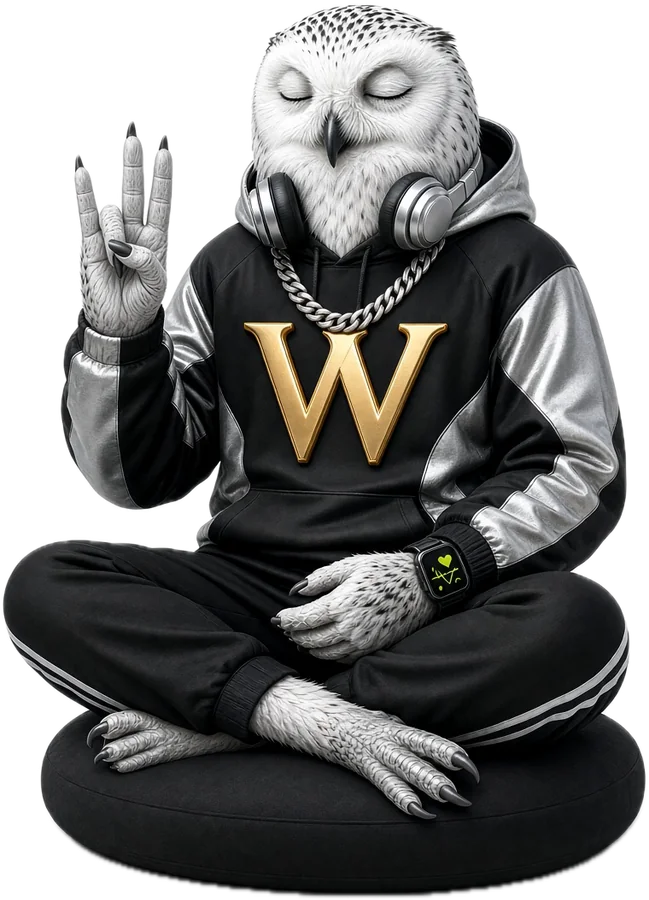
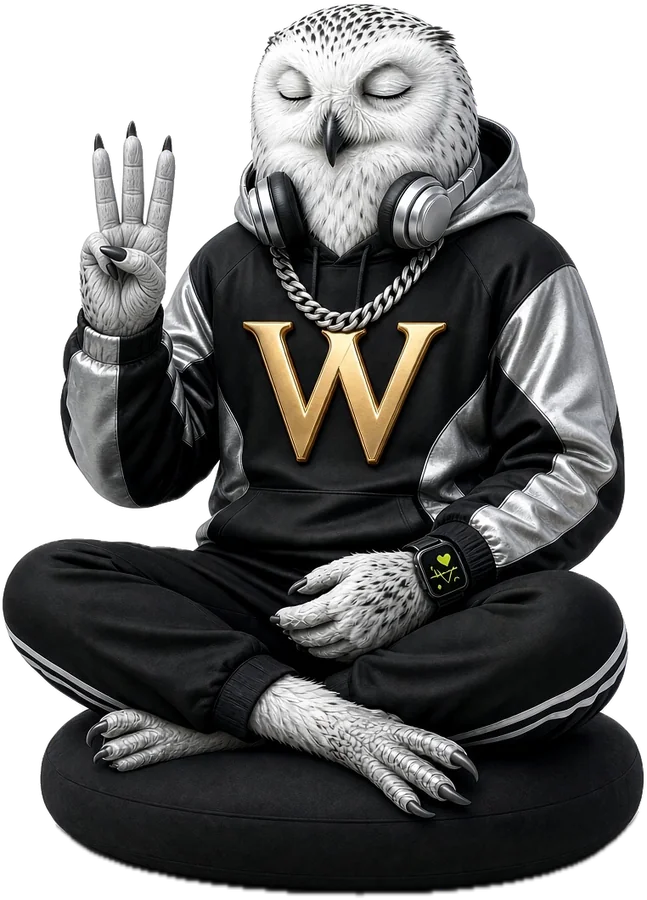
Cast: 8 expressive VVakers (faces visible, no sunglasses: skater, baller, hiker, walker women; runner, dancer, coder, boxer men) in the hero draw; owl meditator's sign fixed; menu label with the sign aligned with the others

diff --git a/src/lib/personas.ts b/src/lib/personas.ts
@@ -16,7 +16,7 @@ export const PERSONAS: Record<VVakerSport, { animal: string; w: number; h: numbe
   coder: { animal: "raccoon", w: 512, h: 900 },
   martial: { animal: "giant panda", w: 558, h: 900 },
   paddler: { animal: "eagle", w: 684, h: 900 },
-  meditator: { animal: "snowy owl", w: 649, h: 900 },
+  meditator: { animal: "snowy owl", w: 647, h: 900 },
   roller: { animal: "red fox", w: 547, h: 900 },
   skater: { animal: "arctic fox", w: 568, h: 900 },
   swimmer: { animal: "otter", w: 385, h: 900 },
@@ -37,28 +37,42 @@ export const FEMALE_PERSONAS = {
   "climber-f": { sport: "climber", animal: "snow leopard", w: 397, h: 900 },
   "footballer-f": { sport: "footballer", animal: "lioness", w: 389, h: 900 },
   "lifter-f": { sport: "lifter", animal: "wolf", w: 500, h: 900 },
+  "skater-f": { sport: "skater", animal: "arctic fox", w: 622, h: 900 },
+  "baller-f": { sport: "baller", animal: "kangaroo", w: 376, h: 900 },
+  "hiker-f": { sport: "hiker", animal: "grizzly bear", w: 482, h: 900 },
+  "walker-f": { sport: "walker", animal: "golden retriever", w: 376, h: 900 },
 } as const satisfies Record<string, { sport: VVakerSport; animal: string; w: number; h: number }>;
 export type FemalePersona = keyof typeof FEMALE_PERSONAS;
 
+/** Expressive men (faces visible, no sunglasses): same pipeline, ids ending in "-m". */
+export const EXTRA_MEN = {
+  "runner-m": { sport: "runner", animal: "grey wolf", w: 479, h: 900 },
+  "dancer-m": { sport: "dancer", animal: "husky", w: 456, h: 900 },
+  "coder-m": { sport: "coder", animal: "penguin", w: 461, h: 900 },
+  "boxer-m": { sport: "boxer", animal: "giant panda", w: 608, h: 900 },
+} as const satisfies Record<string, { sport: VVakerSport; animal: string; w: number; h: number }>;
+export type ExtraMan = keyof typeof EXTRA_MEN;
+
 /** Any cast image: a sport (the men's cast) or a woman's id. */
-export type CastId = VVakerSport | FemalePersona;
+export type CastId = VVakerSport | FemalePersona | ExtraMan;
 export function castImage(id: CastId): { src: string; w: number; h: number; animal: string } {
-  const f = (FEMALE_PERSONAS as Record<string, { animal: string; w: number; h: number }>)[id];
+  const f = ({ ...FEMALE_PERSONAS, ...EXTRA_MEN } as Record<string, { animal: string; w: number; h: number }>)[id];
   const p = f ?? PERSONAS[id as VVakerSport];
   return { src: `/personas/${id}.webp`, w: p.w, h: p.h, animal: p.animal };
 }
 
 /** The hero shows a woman and a man side by side, each drawn independently from these at each visit. */
 export const HERO_WOMEN = Object.keys(FEMALE_PERSONAS) as FemalePersona[];
-export const HERO_MEN: readonly VVakerSport[] = [
+export const HERO_MEN: readonly CastId[] = [
+  "runner-m",
+  "dancer-m",
+  "coder-m",
+  "boxer-m",
   "baller",
-  "runner",
   "footballer",
   "racket",
   "walker",
-  "coder",
   "lifter",
-  "boxer",
   "hiker",
   "roller",
 ];

diff --git a/src/components/sections/Header.tsx b/src/components/sections/Header.tsx
@@ -9,12 +9,15 @@ import type { Locale } from "@/i18n/config";
 import { pageHref, sectionHref } from "@/lib/routes";
 import type { Dictionary } from "@/i18n/dictionaries";
 
-/** "VVaker" in the menu is written with the logo's VV. */
+/**
+ * "VVaker" in the menu is written with the sign as its W. The hand sits out of the text flow (absolute, resting on
+ * the baseline), so the label's line box and text line up exactly with the other menu items.
+ */
 function NavLabel({ label }: { label: string }) {
   if (!label.startsWith("VV")) return <>{label}</>;
   return (
-    <span className="inline-flex items-baseline" aria-label={label}>
-      <VVMark className="mr-px h-[1.15em] translate-y-[0.2em]" />
+    <span className="relative inline-block pl-[0.9em]" aria-label={label}>
+      <VVMark className="absolute bottom-[0.12em] left-0 h-[1.4em]" />
       <span aria-hidden="true">{label.slice(2)}</span>
     </span>
   );
